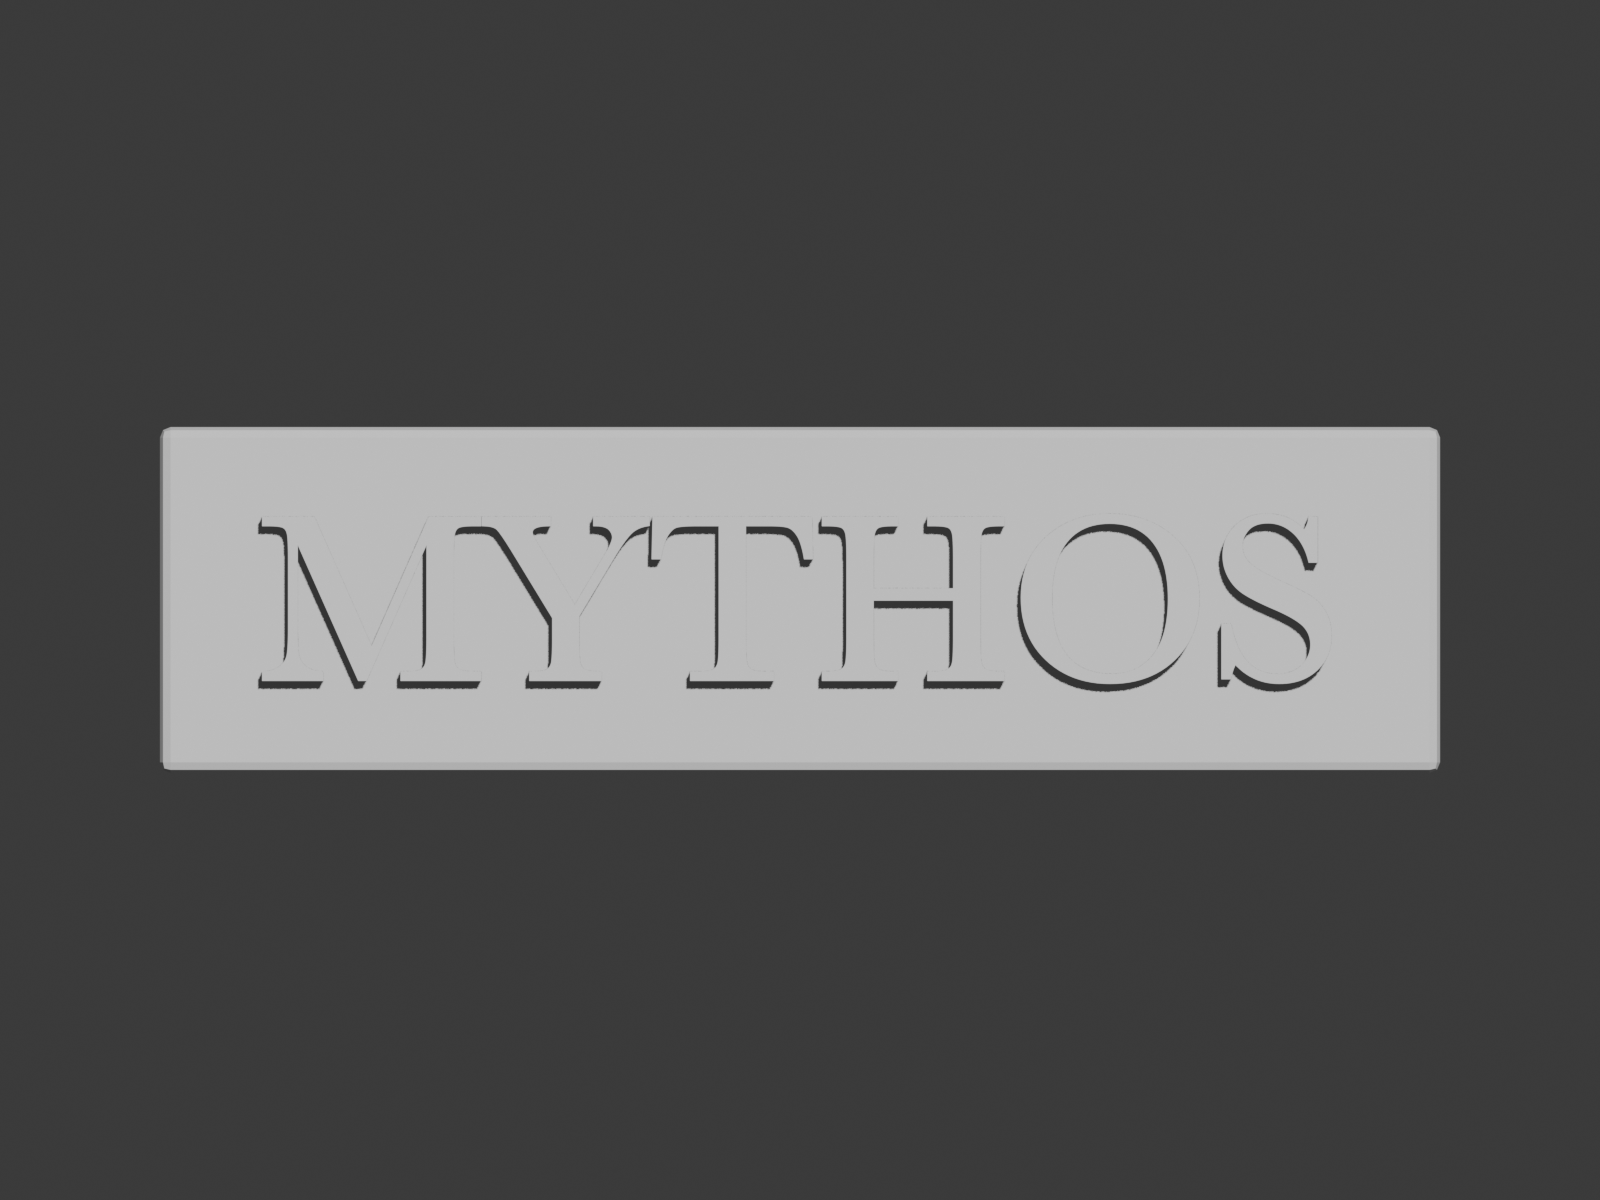
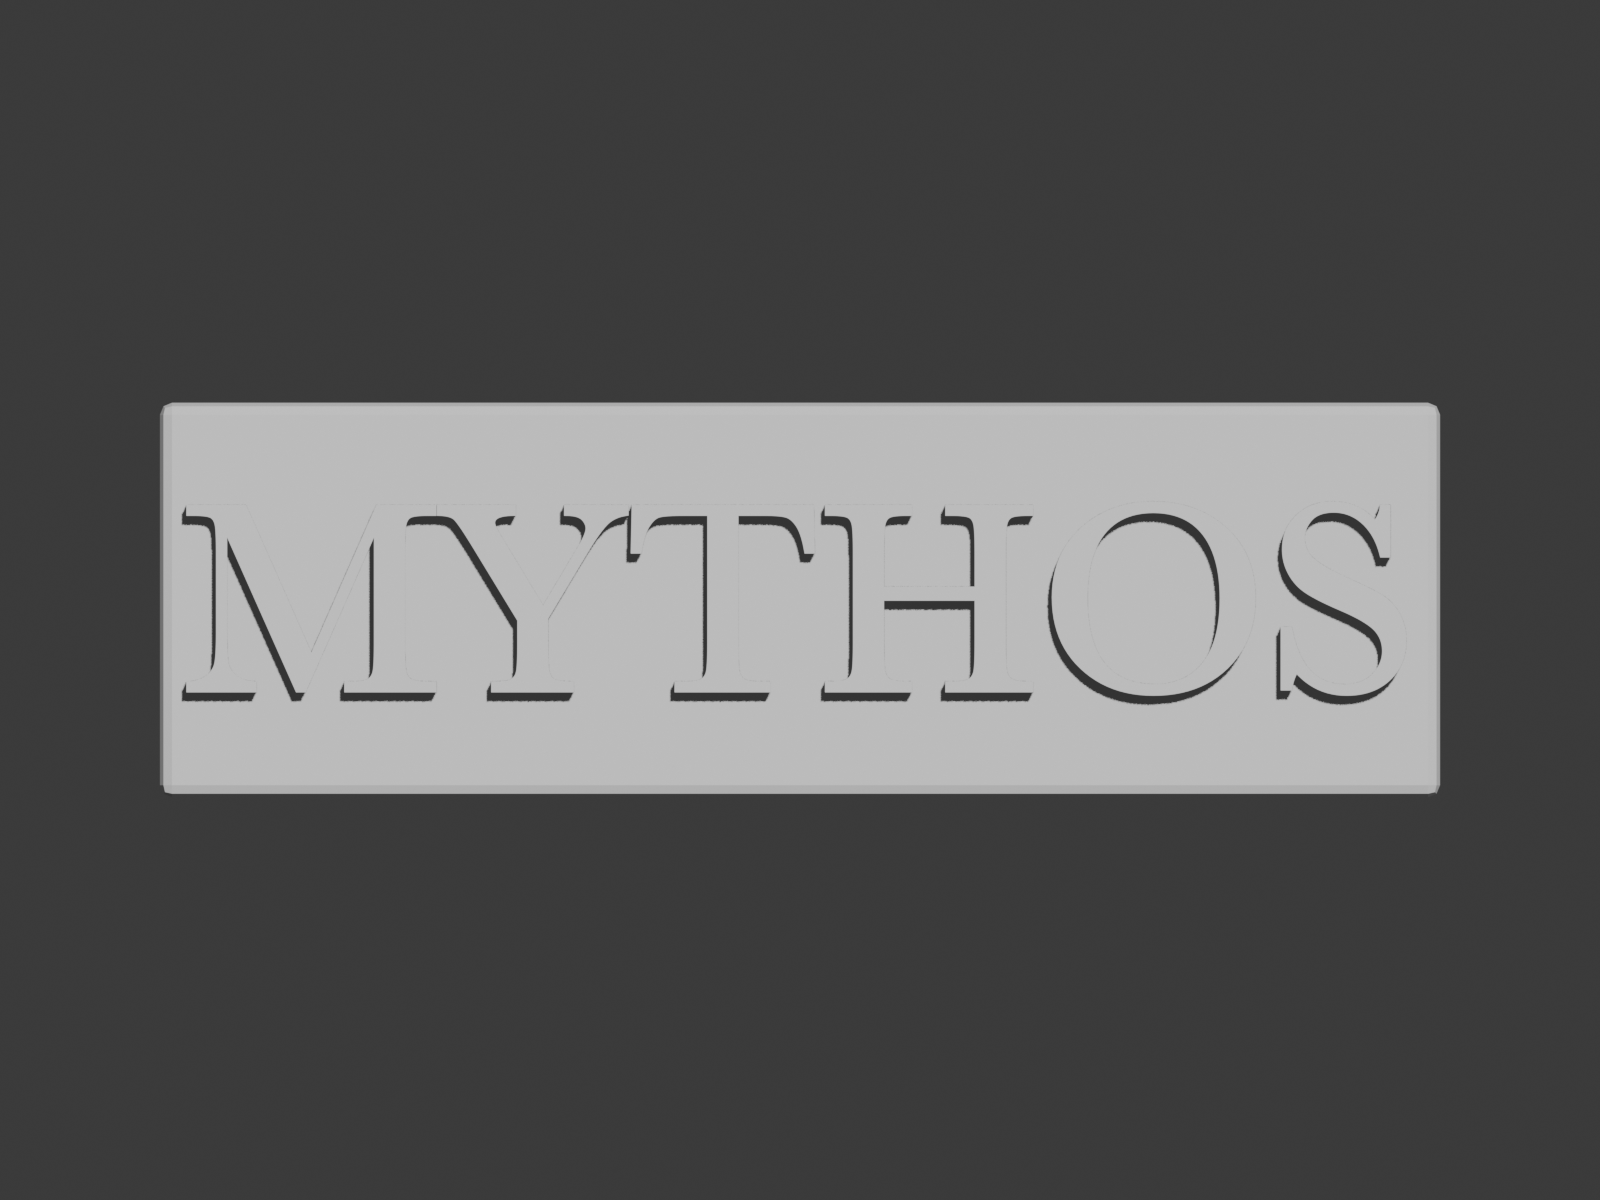
shrink text plate

diff --git a/blender/card-stand/text_plate_v1.py b/blender/card-stand/text_plate_v1.py
@@ -53,7 +53,10 @@ RENDER_RESOLUTION = (1600, 1200)
 # --- Text ---
 TEXT_FONT_PATH = "/System/Library/Fonts/Supplemental/Baskerville.ttc"
 TEXT_STRING = "MYTHOS"
-TEXT_SIZE = 18.0          # up from v5's 15 - bigger overall, proportionally thickens every stroke
+TEXT_SIZE = 18.0          # keep at 18 - dropping to 15 makes TEXT_BOLD_OFFSET proportionally too
+                          # aggressive for the glyphs and collapses the union (verified: "MY" and
+                          # part of the O disappeared, non-manifold fraction spiked to 12%). Shrink
+                          # the plate via PLATE_MARGIN_X instead - doesn't touch text geometry.
 TEXT_BOLD_OFFSET = 0.12  # curve outline offset - pushes every stroke edge out this much, the
                           # fix for O's ring / S's curve reading too thin. Tested 0.08-0.22: past
                           # ~0.13 the offset self-intersects O/S's tight inner curves and the
@@ -67,7 +70,8 @@ TEXT_EMBED = 1.2          # how far into the plate the text volume also extends,
 
 # --- Backing plate ---
 PLATE_T = 2.0             # requested: 2mm thick backing plate
-PLATE_MARGIN_X = 6.0      # margin around the measured text bounding box
+PLATE_MARGIN_X = 1.5      # margin around the measured text bounding box - trimmed from 6.0 so the
+                          # plate (was 73mm) fits inside the 70mm backplate it glues onto
 PLATE_MARGIN_Z = 5.0
 PLATE_BEVEL_W = 0.6
 
